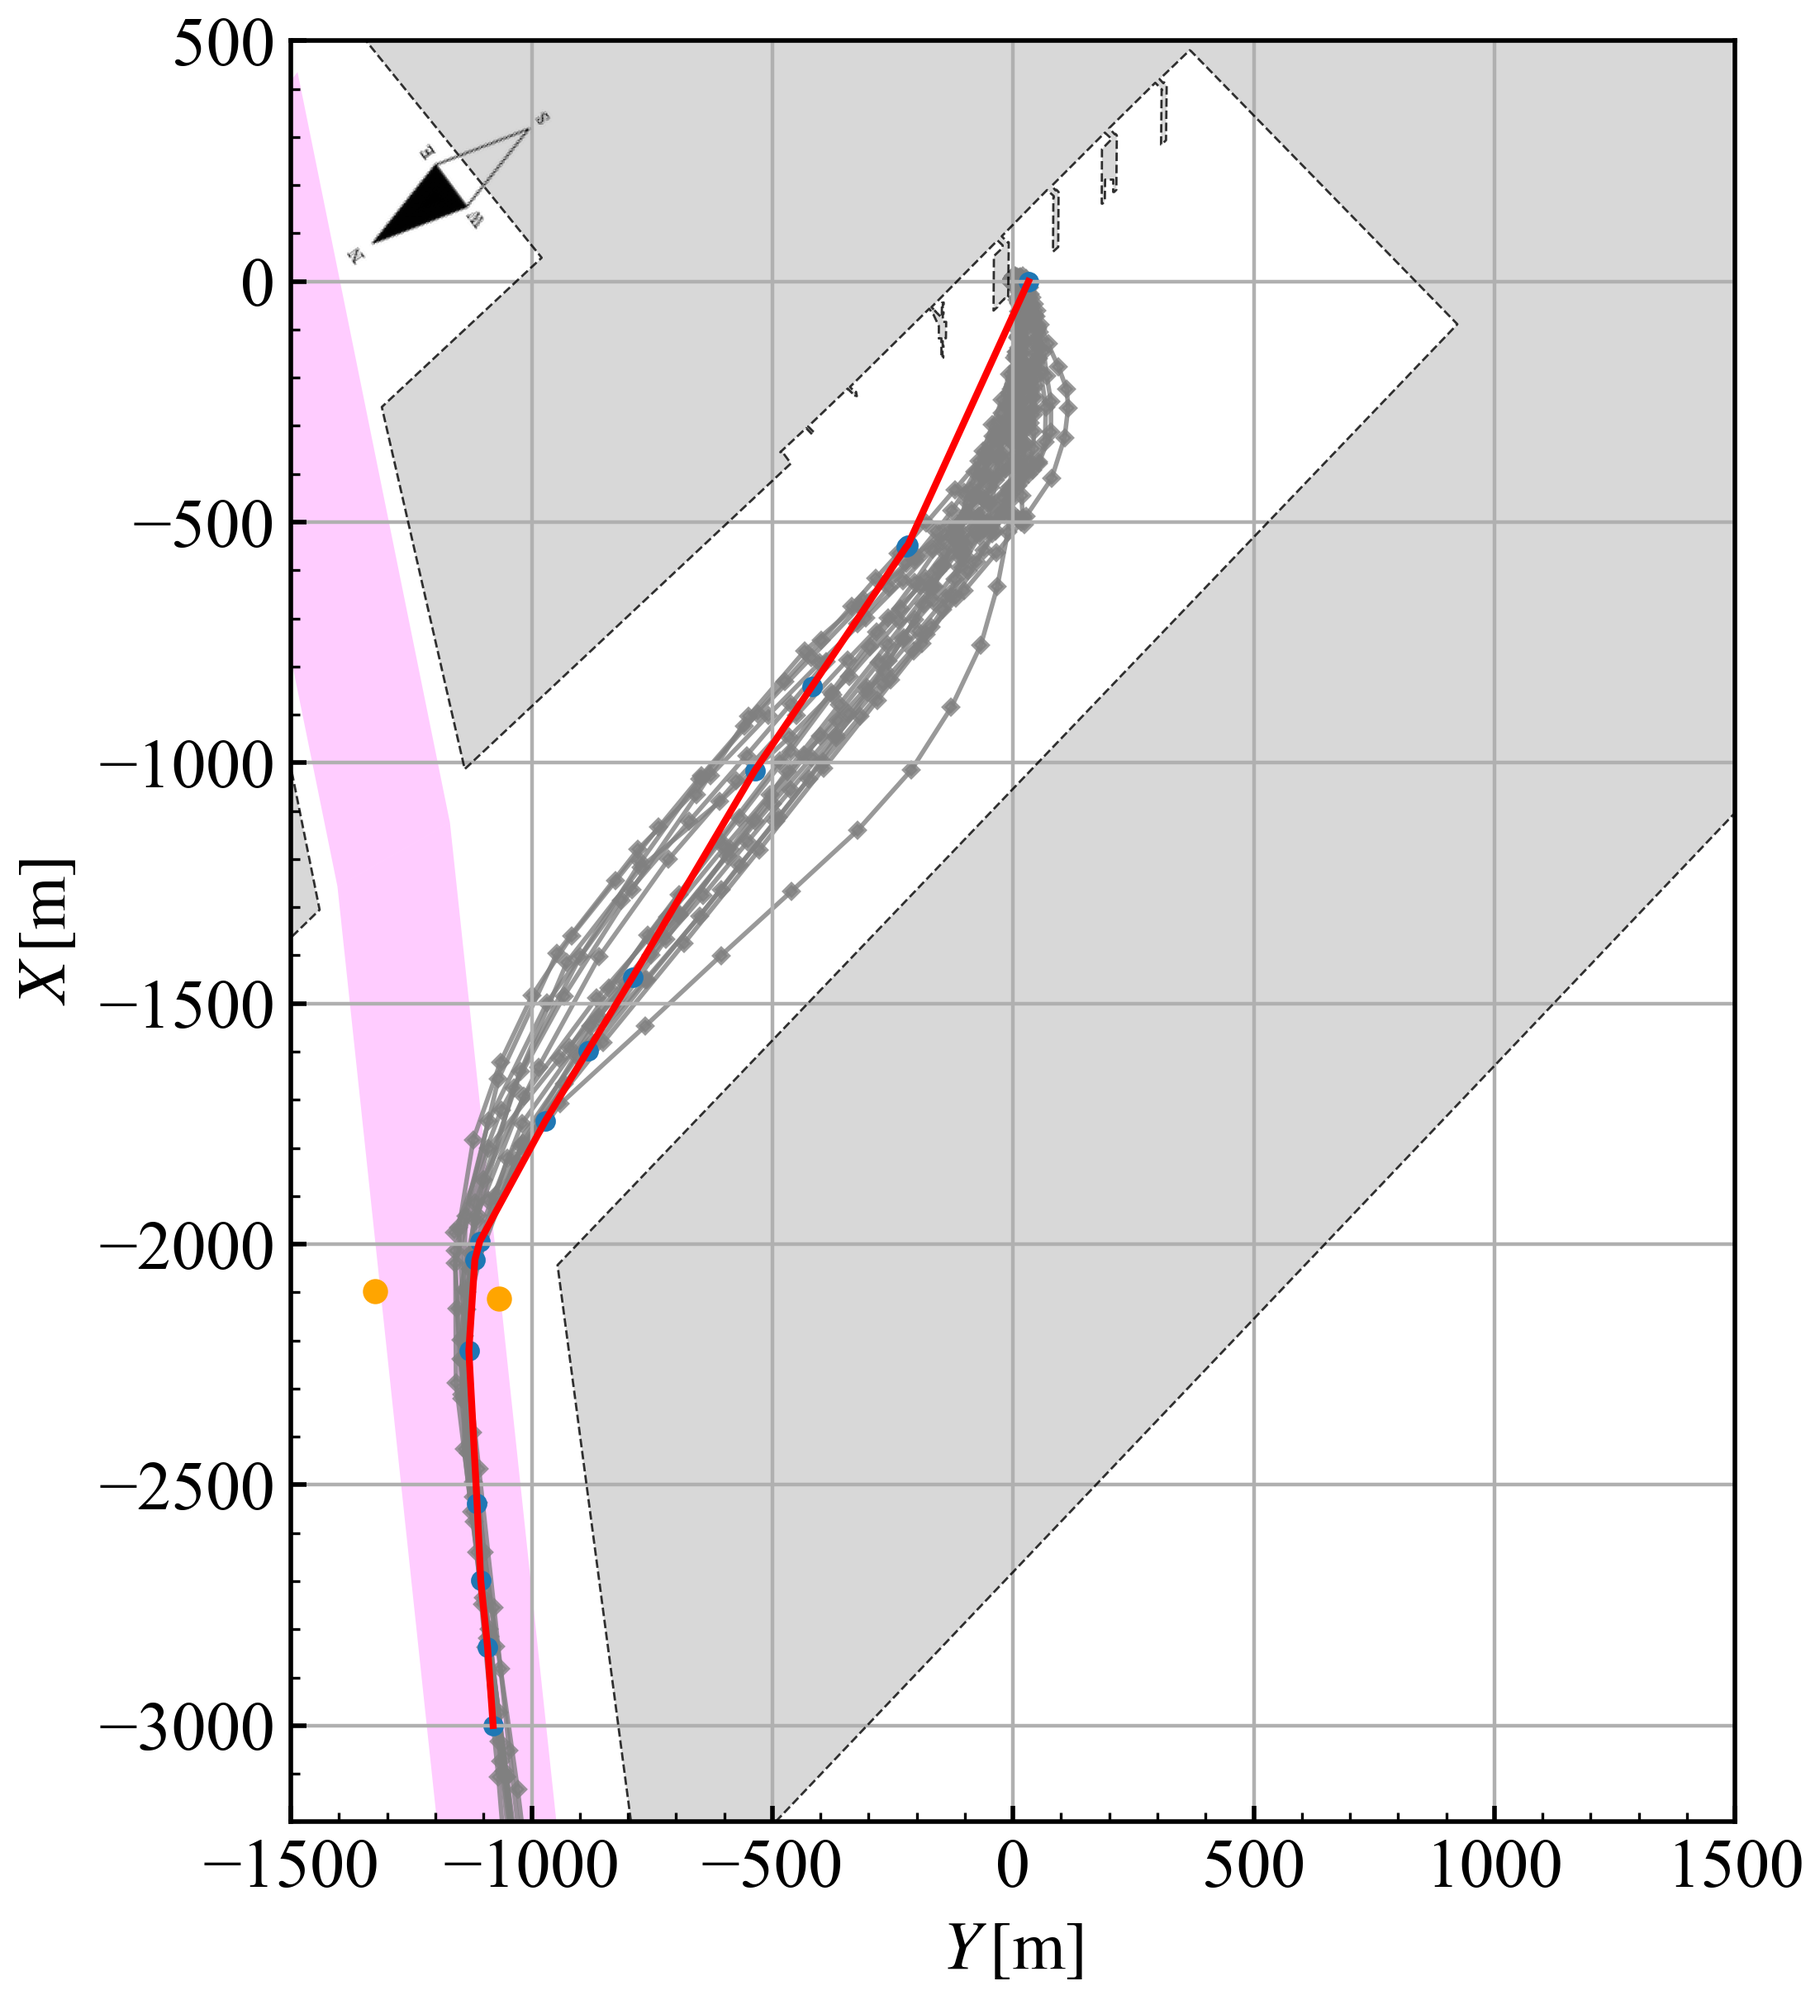
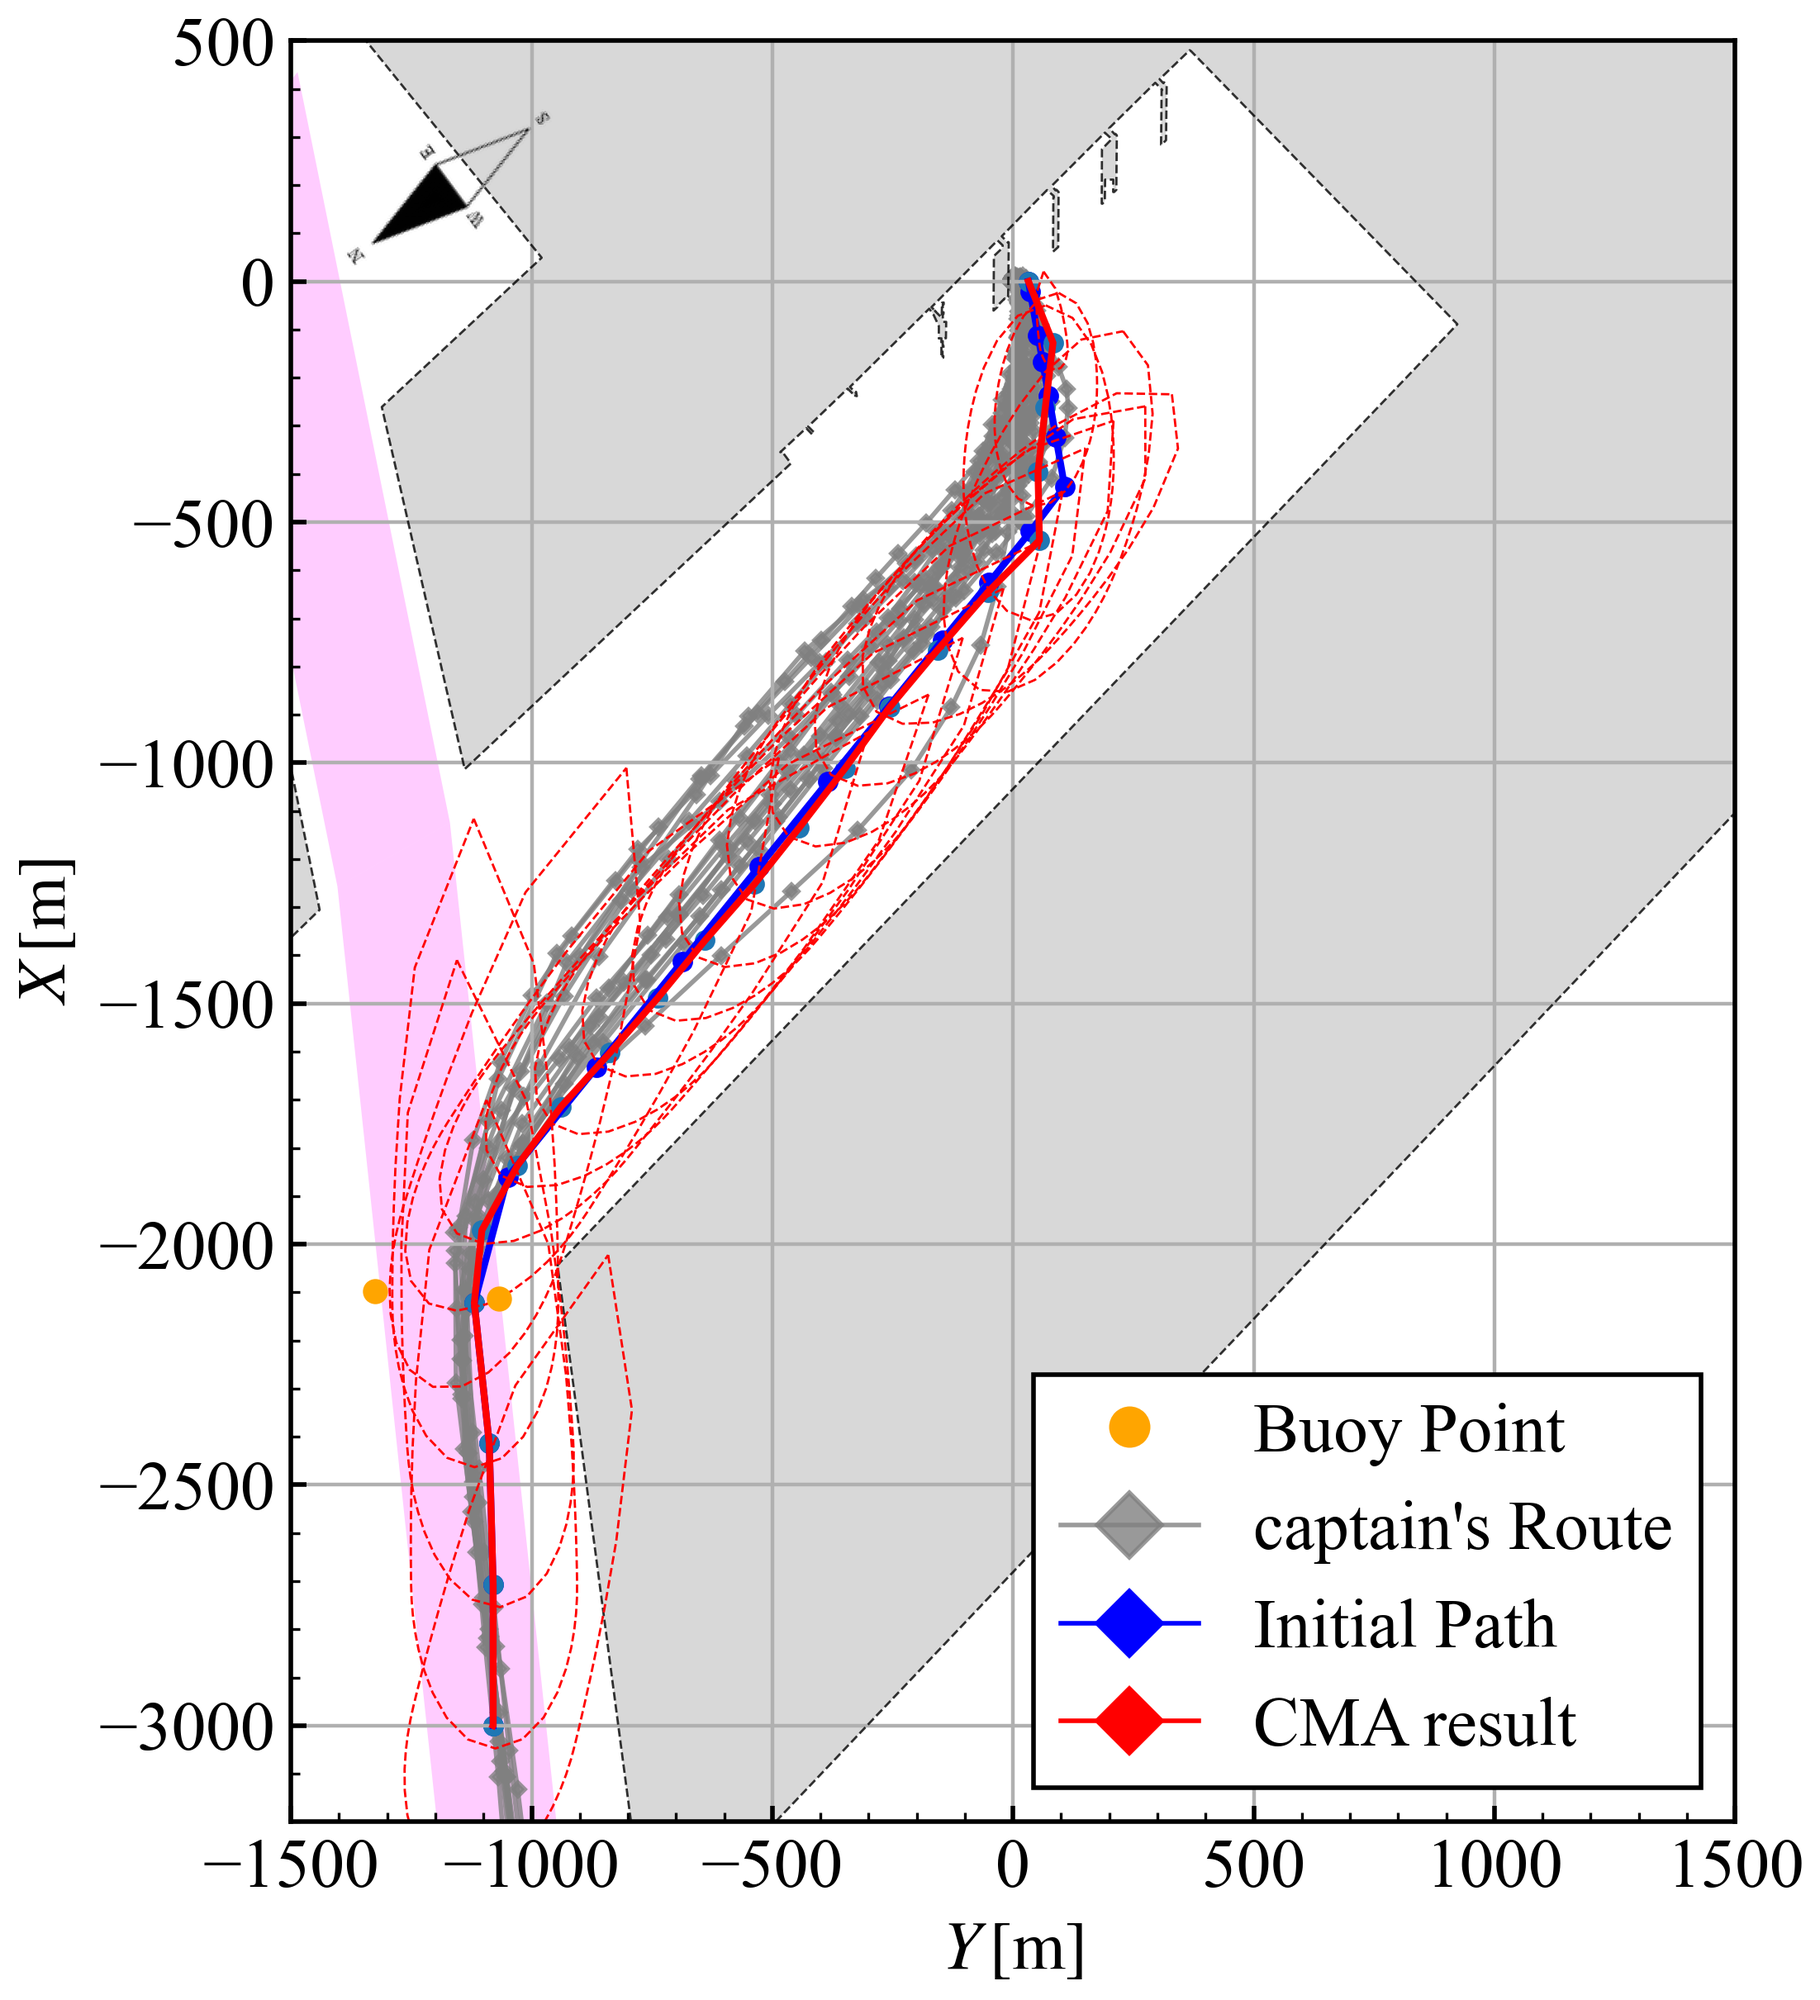
一旦できた。評価関数は要相談

diff --git a/program/path_planning/CMA-ES3.py b/program/path_planning/CMA-ES3.py
@@ -175,31 +175,33 @@ class CostCalculator:
         pts = shapely.points(init_pts[:, 1], init_pts[:, 0])
 
         self.inside0 = shapely.covers(self.lane_poly, pts)
-        print(self.lane_poly.covers(pts))
+        inside = shapely.covers(Line.lane, pts)
+        print("inside count:", inside.sum(), "/", len(inside), "\n")
 
     def ShippingLane(self, pts_vh):
         """
         船は基本的に航路帯を航行する。
         初期経路で航路帯にあったものは、航路帯から外れると大きな罰を与える
         """
+        p = 2; eps=self.ps.B
+        w = 1e2; w_out = 1e4
         pts = shapely.points(pts_vh[:, 1], pts_vh[:, 0])
-        inside = shapely.covers(self.lane_poly, pts)
+        inside = shapely.contains(self.lane_poly, pts)
 
         base = self.inside0
-        
         in_mask = base & inside
+
         pen = 0.0
         if np.any(in_mask):
             dvh = pts_vh[in_mask] - self.init_pts[in_mask]
             d = np.linalg.norm(dvh, axis=1)
-            pen += 100 ** (float(d.sum()))
+            pen += w * float(np.sum((d / eps) ** p))
 
         out_mask = base & (~inside)
         if np.any(out_mask):
             dvh = pts_vh[out_mask] - self.init_pts[out_mask]
             d = np.linalg.norm(dvh, axis=1)
-            pen += 1000 * float(out_mask.sum())
-            pen += float(np.square(d).sum())
+            pen += w_out * float(np.sum((d / eps) ** p))
 
         return pen
 
@@ -278,7 +280,7 @@ def cal_psi(parent_pt, current_pt, child_pt):
 def cal_speed(self, pt, base_pt):
     SD = self.SD
     distance = np.linalg.norm(pt - base_pt)
-    speed = SD.b_ave * distance ** SD.a_ave + SD.a_SD * distance ** SD.a_SD
+    speed = SD.b_ave * distance ** SD.a_ave + SD.b_SD * distance ** SD.a_SD
     if self.ps.MAX_SPEED_KTS < speed:
         return self.ps.MAX_SPEED_KTS
     if self.ps.MIN_SPEED_KTS > speed:
@@ -307,12 +309,15 @@ class MakeLine:
     def main(self):
         self.prepare()
         self.CMAES()
-        self.print_result(self.best_dict)
+        self.result()
 
     def prepare(self):
         self.prepare_for_init_route()
         self.prepare_for_SD()
         self.prepare_for_CMAES()
+
+    def result(self):
+        self.print_result(self.best_dict)
 
     def prepare_for_init_route(self):
         self.read_csv()
@@ -530,6 +535,7 @@ class MakeLine:
     def draw_basemap(self):
         port = self.port
         fig, ax = self.fig, self.ax
+        legends = []
         # map
         map_X, map_Y = self.df_map["x [m]"].values, self.df_map["y [m]"].values
         ax.fill_betweenx(map_X, map_Y, facecolor="gray", alpha=0.3)
@@ -553,6 +559,7 @@ class MakeLine:
                     color='orange', s=20, zorder=4)
         legend_buoy = plt.Line2D([0], [0], marker="o", color="w",
                                     markerfacecolor="orange", markersize=2, label="Buoy Point")
+        legends.append(legend_buoy)
 
         # captain's route
         for df in self.df_cap:
@@ -563,8 +570,8 @@ class MakeLine:
                         markersize = 2, alpha = 0.8, lw = 1.0, zorder = 1)
         legend_captain = plt.Line2D([0], [0],
                                     color = 'gray', ls = '-', marker = 'D',
-                                    markersize = 2, alpha = 0.8, lw = 1.0, label="captain's Route"
-        )
+                                    markersize = 2, alpha = 0.8, lw = 1.0, label="captain's Route")
+        legends.append(legend_captain)
         # compas
         img = mpimg.imread("raw_datas/compass icon2.png")
         df = pd.read_csv(self.port_csv)
@@ -588,10 +595,13 @@ class MakeLine:
         ax.grid()
         ax.set_xlabel(r"$Y\,\rm{[m]}$")
         ax.set_ylabel(r"$X\,\rm{[m]}$")
-        # ax.legend(handles=[legend_initial, legend_way, legend_fixed, legend_buoy, legend_captain, legend_SD])
+        h = ax.legend(handles=legends)
         fig.savefig(os.path.join(self.SAVE_DIR, "base_map.png"),
                     dpi=400, bbox_inches="tight", pad_inches=0.05)
         print("\nbase map saved\n")
+
+        h.remove()
+        self.regends = legends
 
     def make_init_line(self):
         port = self.port
@@ -608,6 +618,7 @@ class MakeLine:
         lines.append(L_start)
 
         # from shipping lane
+        lane_polys = []
         dist_both_ship = 0.5 * self.ps.L + self.ps.B
         for pid, g in self.df_lane.groupby("polygon_id", sort=True):
             lane_pts = g[['y [m]', 'x [m]']].to_numpy()
@@ -622,9 +633,10 @@ class MakeLine:
             lines.append(L_lane)
 
             # for crossing algorithm
-            poly_lane = Polygon(lane_pts)
-            Line.lane = poly_lane
+            poly_lane = Polygon(lane_pts[:, [1, 0]])
+            lane_polys.append(poly_lane)
             print(f"shipping lane {pid} complete")
+        Line.lane = shapely.union_all(lane_polys)
 
         # from birth point
         margin = 2*self.ps.B
@@ -659,12 +671,19 @@ class MakeLine:
             L_birth = lines[base_idx]; idx = None
             shortest = np.linalg.norm(L_birth.fixed_pt - L_birth.end_pt)
 
-            for i in range(1, base_idx):
-                if cross_judge(lines[i], L_birth):
-                    intersect_pt = cal_intersect_pt(lines[i], L_birth)
+            if base_idx == 1:
+                if cross_judge(lines[0], L_birth):
+                    intersect_pt = cal_intersect_pt(lines[0], L_birth)
                     length = np.linalg.norm(intersect_pt - L_birth.end_pt)
                     if length < shortest:
-                        shortest = length; idx = i      
+                        shortest = length; idx = 0
+            else:
+                for i in range(1, base_idx):
+                    if cross_judge(lines[i], L_birth):
+                        intersect_pt = cal_intersect_pt(lines[i], L_birth)
+                        length = np.linalg.norm(intersect_pt - L_birth.end_pt)
+                        if length < shortest:
+                            shortest = length; idx = i      
 
             if idx != None:
                 L_birth.set_parent(lines[idx])
@@ -721,14 +740,14 @@ class MakeLine:
         # Space Penalty
         space_cost = 0.0
         for j in range(len(pts) - 1):
-            space_cost += cal.spacing_penalty(pts[j], pts[j+1])
+            space_cost += cal.spacing_penalty(poly[j], poly[j+1])
 
         # shiping lane init
         cal.ShippingLaneInit(poly)
 
         self.length_coeff = 0.1
-        self.SD_coeff = 1.0
-        self.space_coeff = 30.0 / space_cost
+        self.SD_coeff = 10.0
+        self.space_coeff = 10.0 / space_cost
         self.lane_coeff = 1.0
         print(f"length_coeff : {self.length_coeff}, SD_coeff : {self.SD_coeff}")
         print(f"space_coeff : {self.space_coeff}, lane_coeff : {self.lane_coeff}\n")
@@ -759,13 +778,16 @@ class MakeLine:
 
             # Ship Domain Penalty
             # 衝突している点の数を数える
-            ## check point
             SD_cost = 0.0
-            for j in range(1, len(poly) - 1):
+            idx = np.where(~cal.inside0)[0]
+            idx = idx[(idx >= 1) & (idx <= len(poly) - 2)]
+
+            ## check point
+            for j in idx:
                 SD_cost += cal.ShipDomain_penalty(poly[j - 1], poly[j], poly[j + 1])
 
             ## mid point
-            for j in range(0, len(poly) - 1):
+            for j in idx:
                 mid = (poly[j] + poly[j + 1]) / 2
                 parent = poly[j - 1] if j - 1 >= 0 else poly[j]
                 child  = poly[j + 2] if j + 2 < len(poly) else poly[j+1]
@@ -831,15 +853,15 @@ class MakeLine:
      
     # show map
     def show_init_line(self):
-        ax1 = self.ax
+        ax = self.ax
         lines = self.lines
 
         handles = []
         for ln in lines:
             pts = np.vstack([ln.fixed_pt, ln.end_pt])
-            h, = ax1.plot(pts[:, 1], pts[:, 0], color="red", linestyle='-')
-            h_fixed, = ax1.plot(ln.fixed_pt[1], ln.fixed_pt[0], marker='o', linestyle='None', color='k')
-            h_end, = ax1.plot(ln.end_pt[1], ln.end_pt[0], marker='o', linestyle='None', color='g')
+            h, = ax.plot(pts[:, 1], pts[:, 0], color="red", linestyle='-')
+            h_fixed, = ax.plot(ln.fixed_pt[1], ln.fixed_pt[0], marker='o', linestyle='None', color='k')
+            h_end, = ax.plot(ln.end_pt[1], ln.end_pt[0], marker='o', linestyle='None', color='g')
             handles.extend([h, h_fixed, h_end])
         plt.savefig(os.path.join(self.SAVE_DIR, "init line.png"),
                     dpi=400, bbox_inches="tight", pad_inches=0.05)
@@ -848,7 +870,7 @@ class MakeLine:
             h.remove()
 
     def show_init_route(self):
-        ax2 = self.ax
+        ax = self.ax
         lines = self.lines
 
         ln = lines[-1]
@@ -857,7 +879,7 @@ class MakeLine:
             ln = ln.parent
             pts_list.append(np.asarray(ln.fixed_pt))
         pts = np.vstack(pts_list[::-1])
-        h, =ax2.plot(pts[:, 1], pts[:, 0], color="red", linestyle='-')
+        h, =ax.plot(pts[:, 1], pts[:, 0], color="red", linestyle='-')
         plt.savefig(os.path.join(self.SAVE_DIR, "init route.png"),
                     dpi=400, bbox_inches="tight", pad_inches=0.05)
         print("init route saved\n")
@@ -869,6 +891,7 @@ class MakeLine:
         """
         初期経路に合わせて自動で分割. グリッドを時間で分割
         """
+        ax = self.ax
         end_pt = pts[-1]
 
         seg_len = np.linalg.norm(pts[1:] - pts[:-1], axis=1)
@@ -886,26 +909,75 @@ class MakeLine:
         while u < total_len:
             curent_pt = interp(u)
             speed_kt = cal_speed(self, curent_pt, end_pt)
+            if speed_kt == self.ps.MIN_SPEED_KTS:
+                speed_kt = self.ps.MIN_SPEED_KTS * 2
             speed = speed_kt *1852 / 60 # [m/min]
             u = min(u + speed, total_len)
             out.append(interp(u) if u < total_len else pts[-1].copy())
+
+        # show
+        out_pt = np.asarray(out, dtype=float).reshape(-1, 2)
+        ax.plot(out_pt[:, 1], out_pt[:, 0], color="blue", linestyle='-')
+        ax.scatter(out_pt[:, 1], out_pt[:, 0], s=12, marker="o", c="blue")
+        legend_init_path = plt.Line2D([0], [0],
+                                    color = 'blue', ls = '-', marker = 'D',
+                                    markersize = 2, lw = 1.0, label="Initial Path")
+        self.regends.append(legend_init_path)
+        h = ax.legend(handles=self.regends)
+        plt.savefig(os.path.join(self.SAVE_DIR, "CMA route init.png"),
+                    dpi=400, bbox_inches="tight", pad_inches=0.05)
+        print("init route saved\n")
+
+        h.remove()
 
         return np.asarray(out, dtype=float)
 
 
     def show_CMA_path(self, best_mean, restart):
-        ax3 = self.ax
+        ax = self.ax
+        SD = self.SD
         start = self.init_pts[0]; end = self.init_pts[-1]
+        h_list = []
 
         pts = np.asarray(best_mean, float).reshape(-1, 2)
         path = np.vstack([start, pts, end])
 
-        h, =ax3.plot(path[:, 1], path[:, 0], color="red", linestyle='-')
-        ax3.scatter(path[:, 1], path[:, 0], s=12, marker="o")
+        # path, point
+        h1, = ax.plot(path[:, 1], path[:, 0], color="red", linestyle='-')
+        h2 = ax.scatter(path[:, 1], path[:, 0], c="r",s=12, marker="o")
+        h_list.append(h1); h_list.append(h2)
+        if restart == 0:
+            legend_path = plt.Line2D([0], [0],
+                                        color = 'red', ls = '-', marker = 'D',
+                                        markersize = 2, lw = 1.0, label="CMA result")
+            self.regends.append(legend_path)
+        
+
+        # ship domain
+        theta = np.deg2rad(np.arange(0, 360, 10))
+        theta_c = np.r_[theta, theta[0]] 
+        for i in range(1, len(path)-1):
+            speed = cal_speed(self, path[i], path[-1])
+            psi = cal_psi(path[i-1], path[i], path[i+1])
+            ang = theta_c + psi
+
+            r = np.array([SD.distance(speed, th) for th in theta], dtype=float)
+            r_c = np.r_[r, r[0]]
+
+            xs = path[i][1] + r_c * np.sin(ang)
+            ys = path[i][0] + r_c * np.cos(ang)
+
+            h, = ax.plot(xs, ys, lw=0.5, color='r', ls='--')
+            h_list.append(h)
+
+        h3 = ax.legend(handles=self.regends)
+        h_list.append(h3)
         plt.savefig(os.path.join(self.SAVE_DIR, f"CMA route ver {restart}.png"),
                     dpi=400, bbox_inches="tight", pad_inches=0.05)
         print(f"CMA route ver {restart} saved")
 
+        for h in h_list:
+            h.remove()
         self.path = path
 
     def CMA_result(self):
